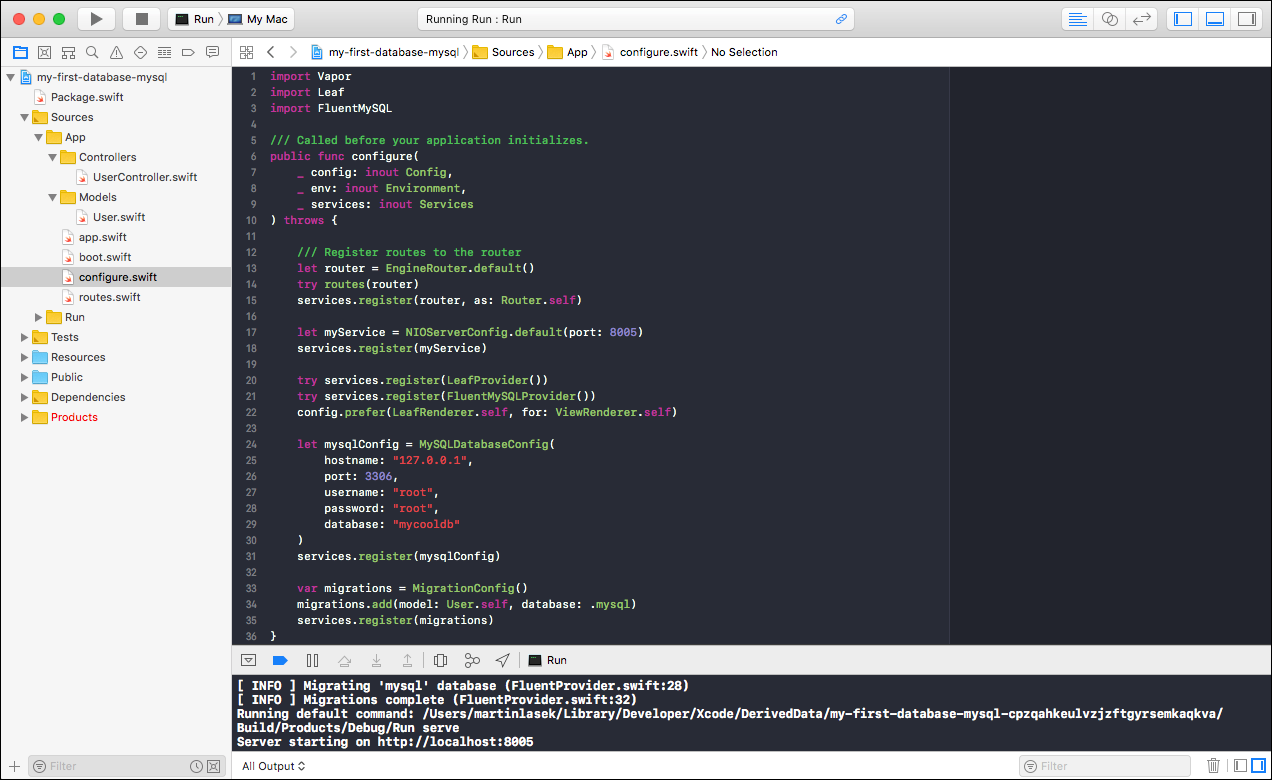
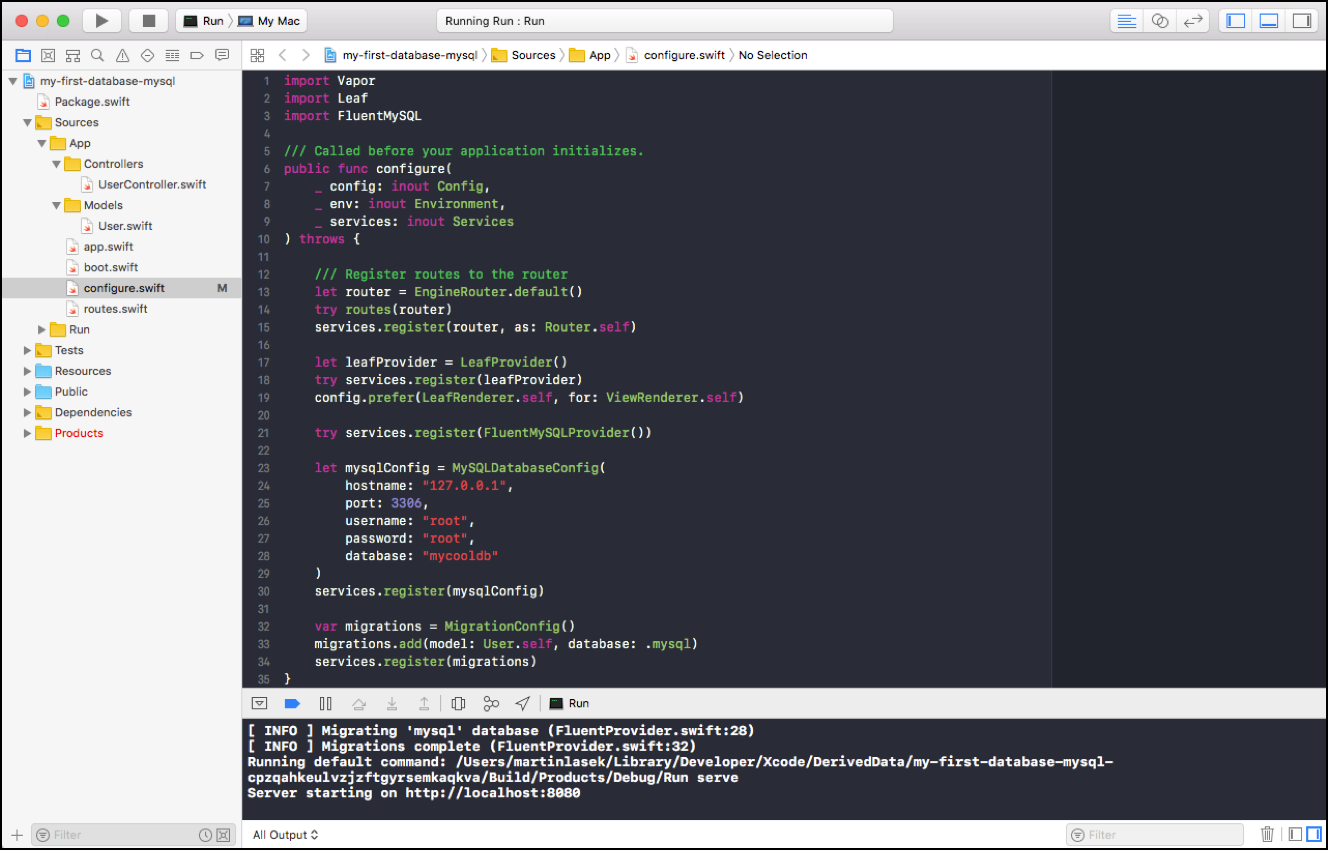
updated port configuration / updated image to display default port

diff --git a/Sources/App/configure.swift b/Sources/App/configure.swift
@@ -14,12 +14,11 @@ public func configure(
     try routes(router)
     services.register(router, as: Router.self)
 
-    let myService = NIOServerConfig.default(port: 8005)
-    services.register(myService)
-
-    try services.register(LeafProvider())
-    try services.register(FluentMySQLProvider())
+    let leafProvider = LeafProvider()
+    try services.register(leafProvider)
     config.prefer(LeafRenderer.self, for: ViewRenderer.self)
+
+    try services.register(FluentMySQLProvider())
 
     let mysqlConfig = MySQLDatabaseConfig(
         hostname: "127.0.0.1",
